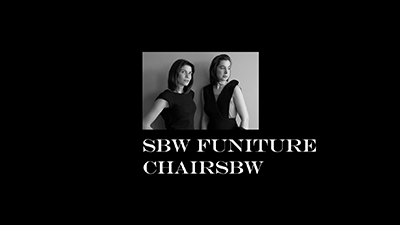
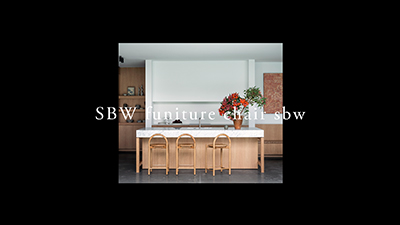
chaerumi folio

Changed region(s): [[0.24, 0.1867, 0.81, 0.84]]

diff --git a/portfolio-website/portfolio4/css/style.css b/portfolio-website/portfolio4/css/style.css
@@ -1,10 +1,10 @@
 /* font */
-@import url('https://fonts.googleapis.com/css2?family=Edu+QLD+Beginner:wght@400;500;600;700&family=Noto+Sans+KR:wght@100;300;400;500;700&family=Raleway:wght@100;200;300;400;500;600;700;800;900&display=swap');
+@import url('https://fonts.googleapis.com/css2?family=Cinzel:wght@500;700&family=Cormorant+Garamond:wght@300;400;500;600&family=Edu+QLD+Beginner:wght@400;500&family=Nabla&family=Noto+Sans+KR:wght@100;300;400;500;700&family=Raleway:wght@200;300;400;500;600;700;800;900&display=swap');
 
 /* font-family: 'Edu QLD Beginner', cursive;
 font-family: 'Noto Sans KR', sans-serif;
-font-family: 'Raleway', sans-serif;
-font-family: "Engravers MT" */
+font-family: 'Raleway', sans-serif; 
+font-family: 'Cormorant Garamond', serif; */
 
 /*reset*/
 * {margin: 0;padding: 0; box-sizing: border-box;}
@@ -31,40 +31,41 @@ section {
 
 /* section.main */
 section.main h1.title {
-  width: 900px;
+  width: 1050px;
   position: relative;
-  top: 75%;
-  left: 68%;
-  transform: translate(-68%, -75%);
+  top: 50%;
+  left: 50%;
+  transform: translate(-50%, -50%);
   color: #fff;
   text-align: left;
-  font-size: 80px;
-  font-family: "Engravers MT";
-  font-weight: lighter;
+  font-size: 90px;
+  font-family: 'Cormorant Garamond', serif;
+  font-weight: 200;
   z-index: 100;
 }
 
-section.main .title div {
+section.main h1.title div {
   display: inline-block;
-  letter-spacing: -18px;
+  letter-spacing: -10px;
 }
 
 section .mainImg {
   position: absolute;
-  transition: all 1s;
+  transition: all 1.5s;
 }
 
 section .designer {
+  top: 50%;
   left: 50%;
-  top: 30%;
-  transform: translate(-50%, -30%);
+  transform: translate(-50%, -50%);
   z-index: 10;
 }
 
 section .chairs {
+  top: 50%;
   left: 50%;
-  top: 30%;
-  transform: translate(-50%, -30%);
+  transform: translate(-50%, -50%);
+  opacity: 0;
 }
 
 /* section.about */

diff --git a/portfolio-website/portfolio4/index.html b/portfolio-website/portfolio4/index.html
@@ -22,28 +22,28 @@
       <h1 class="bestItem opa-0">BEST ITEM</h1>
       <section class="main">
         <img class="designer mainImg" src="./image/mainDesigner.jpg" alt="designer-img">
-        <img class="chairs mainImg" src="./image/mainChairs.jpg" alt="chairs-img">
+        <img class="chairs mainImg" src="./image/bg2_03.png" alt="chairs-img">
         <a href="#">
           <h1 class="title">
             <div>S</div>
             <div>B</div>
             <div>W &nbsp</div>
-            <div>F</div>
-            <div>U</div>
-            <div>N</div>
-            <div>I</div>
-            <div>T</div>
-            <div>U</div>
-            <div>R</div>
-            <div>E</div>
-            <div>C</div>
-            <div>H</div>
-            <div>A</div>
-            <div>I</div>
-            <div>R</div>
-            <div>S</div>
-            <div>B</div>
-            <div>W</div>
+            <div>f</div>
+            <div>u</div>
+            <div>n</div>
+            <div>i</div>
+            <div>t</div>
+            <div>u</div>
+            <div>r</div>
+            <div>e &nbsp</div>
+            <div>c</div>
+            <div>h</div>
+            <div>a</div>
+            <div>i</div>
+            <div>r &nbsp</div>
+            <div>s</div>
+            <div>b</div>
+            <div>w</div>
           </h1>
         </a> 
       </section>

diff --git a/portfolio-website/portfolio4/js/script.js b/portfolio-website/portfolio4/js/script.js
@@ -1,7 +1,10 @@
 // mainImg 효과
 const designer = document.querySelector('.designer');
+const chairs = document.querySelector('.chairs');
+
 setInterval(()=>{
   designer.style.opacity = '0';
+  chairs.style.opacity = '1';
 }, 3000);
  
 // mainTxt 효과 & 동그라미 버튼 
@@ -12,7 +15,7 @@ for(let k=0; k < title.querySelectorAll('div').length; k++){
       
   let text = title.querySelectorAll('div')[k];
 
-      TweenMax.from( text , 1, {
+      TweenMax.from( text , 2, {
       autoAlpha: 0,
       delay : Math.random()*1.5,
       ease: Power3.easeInOut 
@@ -23,7 +26,7 @@ let section = document.getElementsByTagName("section");
 let pointBtn = document.querySelectorAll(".pointWrap li");
 let pageNum = 0;
 let totalNum = section.length
-for( let i = 0; i < pointBtn.length; i++ ){
+for( let i = 0; i < pointBtn.length; i++){
       (function(idx) {
           pointBtn[idx].onclick = function() {
               pageNum = idx;
